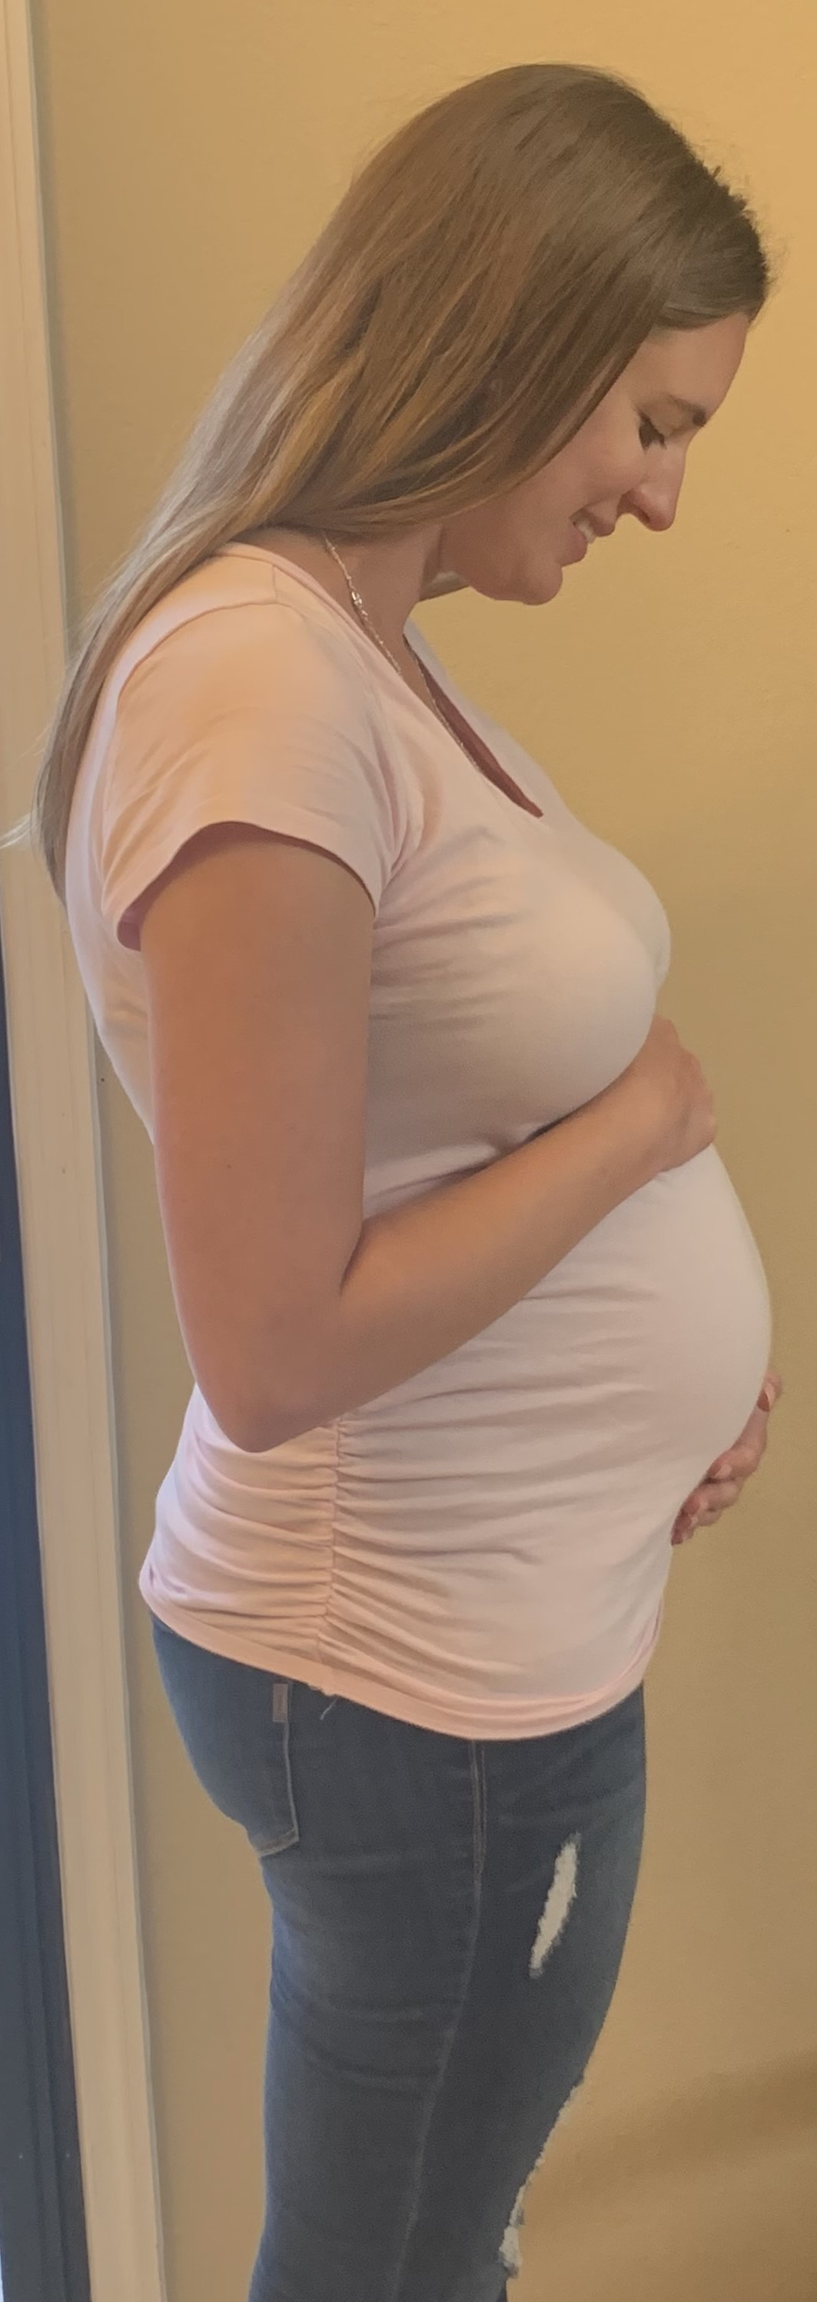
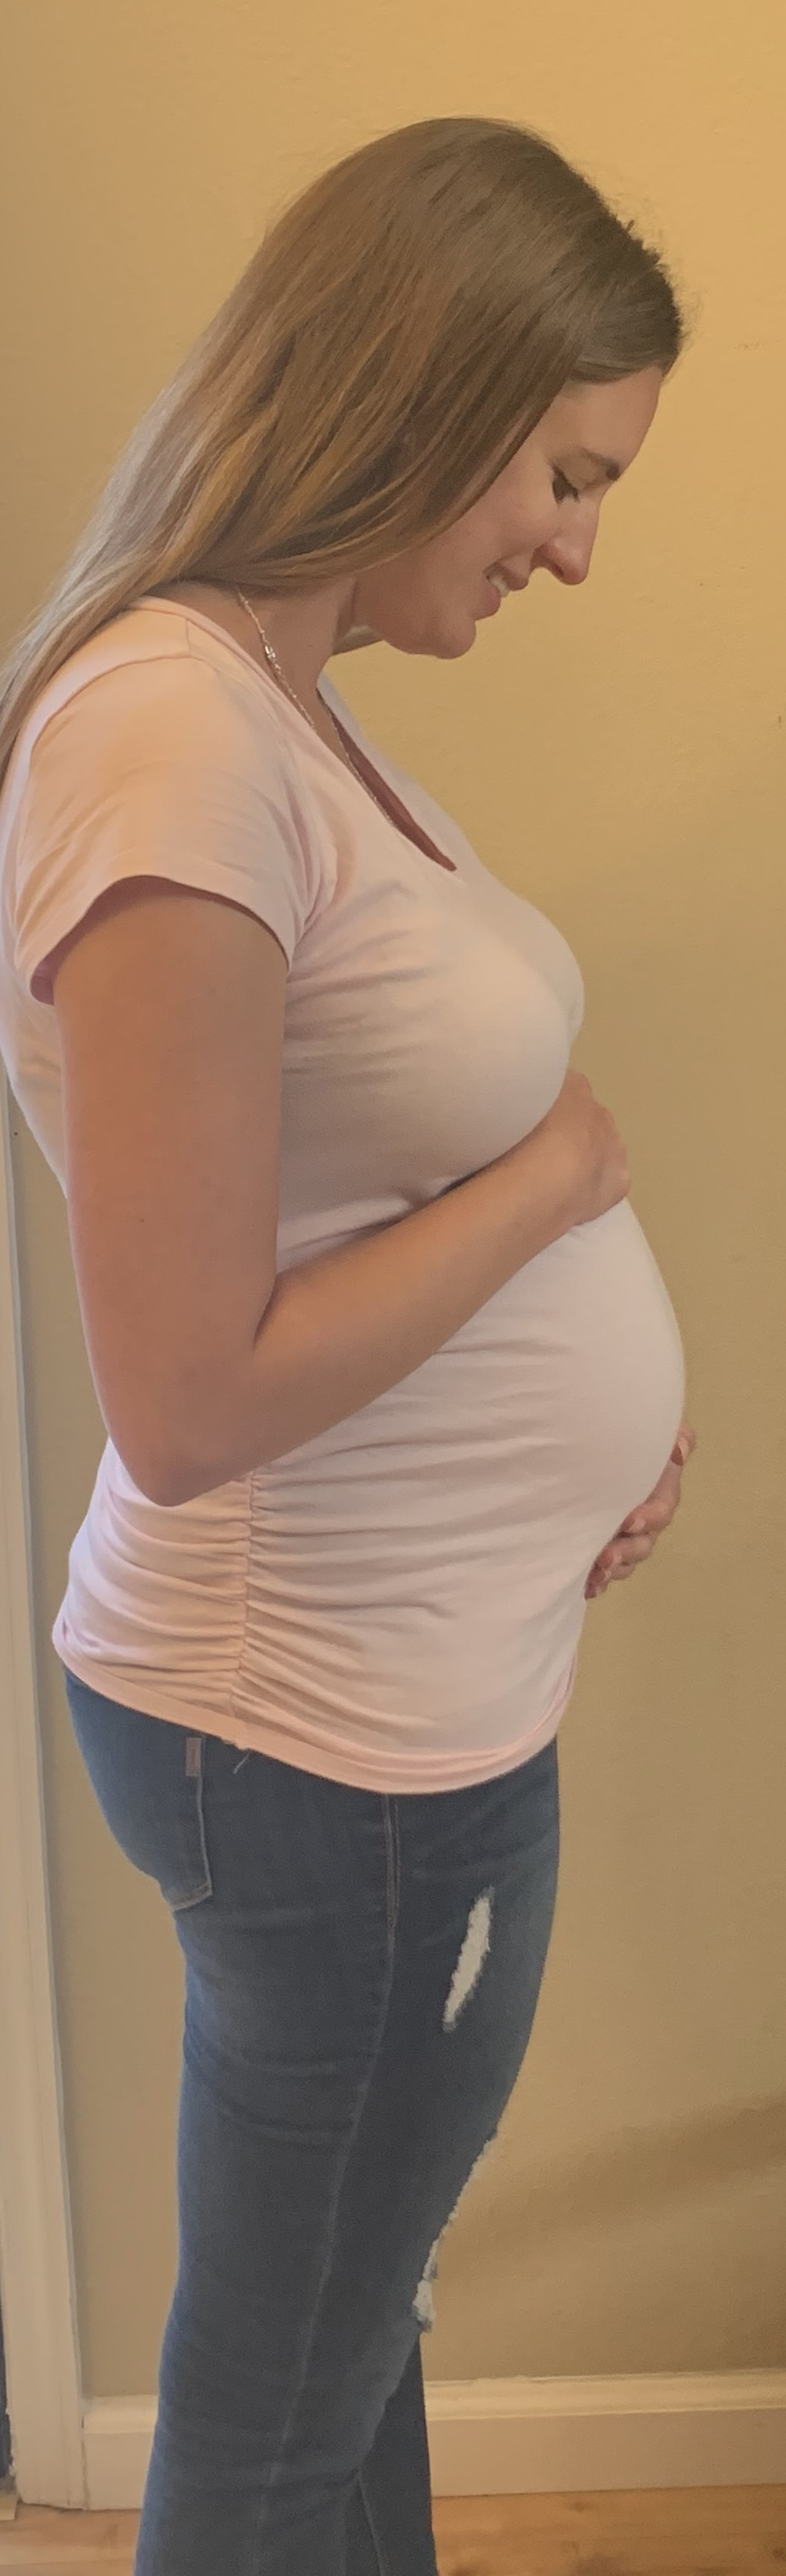
32 weeks and hid registry

diff --git a/index.html b/index.html
@@ -29,12 +29,8 @@
         <a class="nav-link" href="#gender">Gender
         </a>
       </li>
-      <li class="nav-item">
-        <a class="nav-link" href="#registry">Registry
-        </a>
-      </li>
       <!-- <li class="nav-item">
-        <a class="nav-link" href="#events">Events
+        <a class="nav-link" href="#registry">Registry
         </a>
       </li> -->
 
@@ -101,8 +97,12 @@
         <h5 class=card-title>24 weeks</h5>
       </div>
          <div class='card' style="width:18rem">
-        <img src="./photos/bump/28weekbump.jpg" class='card-img-top img' alt="">
+        <img src="./photos/bump/28weekbump.jpg" class='card-img-top img' alt="28 weeks">
         <h5 class=card-title>28 weeks</h5>
+      </div>
+       <div class='card' style="width:18rem">
+        <img src="./photos/bump/32weekbump.JPG" class='card-img-top img' alt="32 weeks">
+        <h5 class=card-title>32 weeks</h5>
       </div>
       <!-- <div class='card' style="width:18rem">
         <img src="" class='card-img-top img' alt="">
@@ -127,7 +127,7 @@
 
     <!-- Registry Section -->
 
-    <section id="registry" class='container section-background '>
+    <!-- <section id="registry" class='container section-background '>
       <div class='section-header'>
         <h2>Registry</h2>
       </div>
@@ -139,21 +139,9 @@
           <a href="https://www.target.com/gift-registry/giftgiver?registryId=3c2db2ba7bd54299ae2891cdb19d8d64&lnk=registry_custom_url"
             target="_blank">Target</a>
         </div>
-        <!-- <div class='registry-link section-text'>
-          <a href="" target="_blank">Name</a>
-        </div> -->
-      </div>
-    </section>
-
-    <!-- Events -->
-    <!-- <section id="events" class='container section-background'>
-      <div class='section-header'>
-        <h2>Events</h2>
-        <div>
-          <h3 class='section-text'>No events scheduled at this time.</h3>
-        </div>
       </div>
     </section> -->
+
 
     <!-- Modal -->
 
